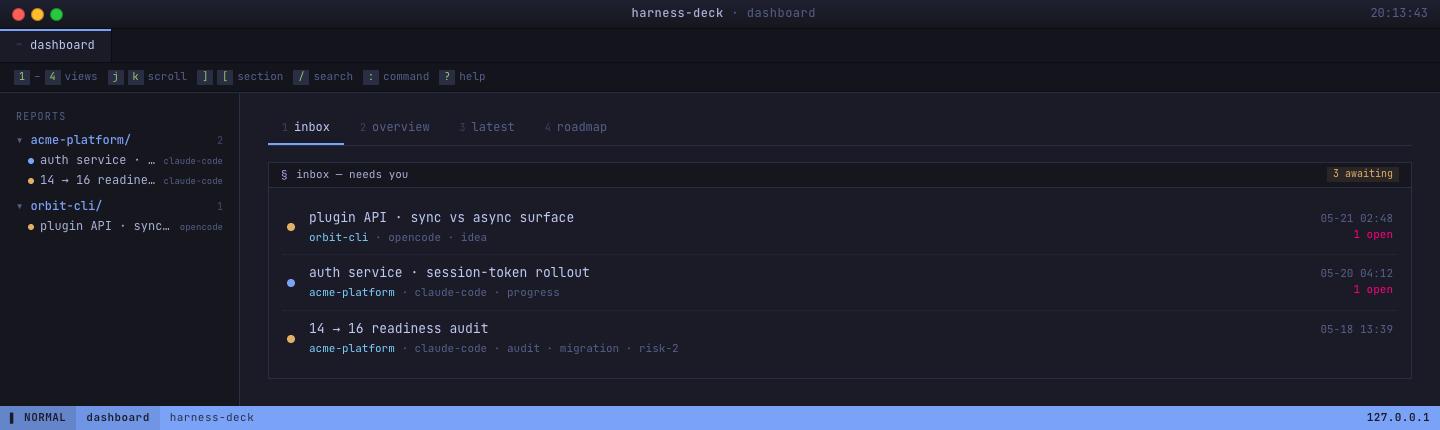
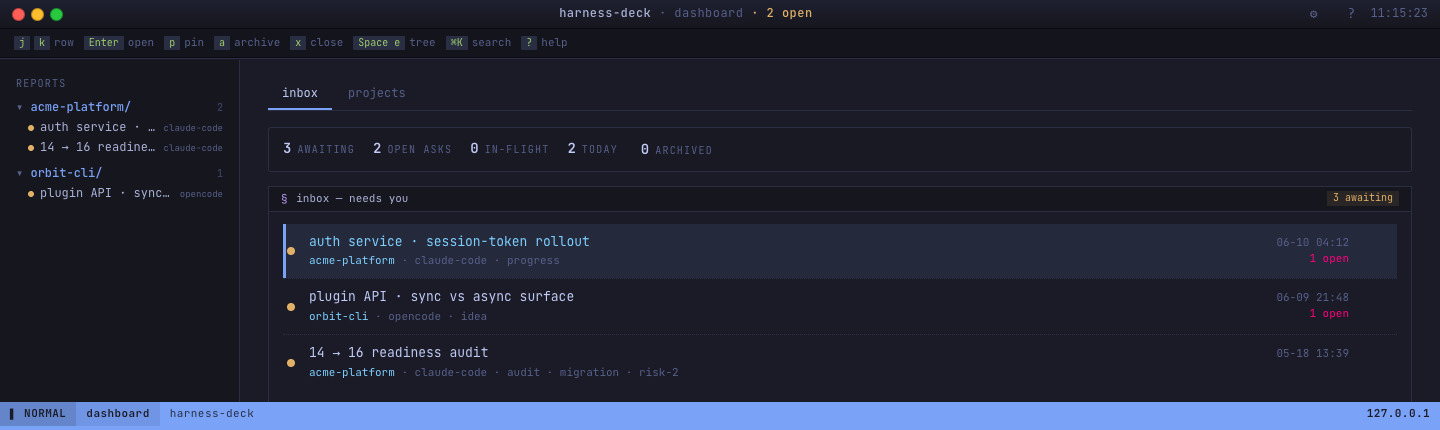
docs: update launch-prep screenshots and status
Retake dashboard, report, and projects screenshots against v0.2.x UI.
Remove outdated roadmap.png. Update Status section to reflect daily use,
Homebrew releases, and versioned manifest contract.

diff --git a/README.md b/README.md
@@ -31,12 +31,16 @@ The projects view auto-discovers every project under your `scan_roots` (e.g.
 together, alongside any reports published with `kind: "roadmap"`. A "tracked
 projects" panel lets you uncheck the ones you don't care to follow:
 
-![The harness-deck projects view](docs/screenshots/roadmap.png)
+![The harness-deck projects view](docs/screenshots/projects.png)
 
 ## Status
 
-Early build. See [`.docs/ai/roadmap.md`](.docs/ai/roadmap.md) for the phased plan
-and [`.docs/ai/current-state.md`](.docs/ai/current-state.md) for the latest
+Actively developed and used daily by its author. Releases ship via Homebrew,
+the manifest contract is versioned (`harness-deck/report@1`), and a stale
+binary degrades gracefully rather than breaking when the schema grows. Expect
+fast iteration on the UI before v1. See
+[`.docs/ai/roadmap.md`](.docs/ai/roadmap.md) for the plan and
+[`.docs/ai/current-state.md`](.docs/ai/current-state.md) for the latest
 breadcrumb.
 
 ## How it works
